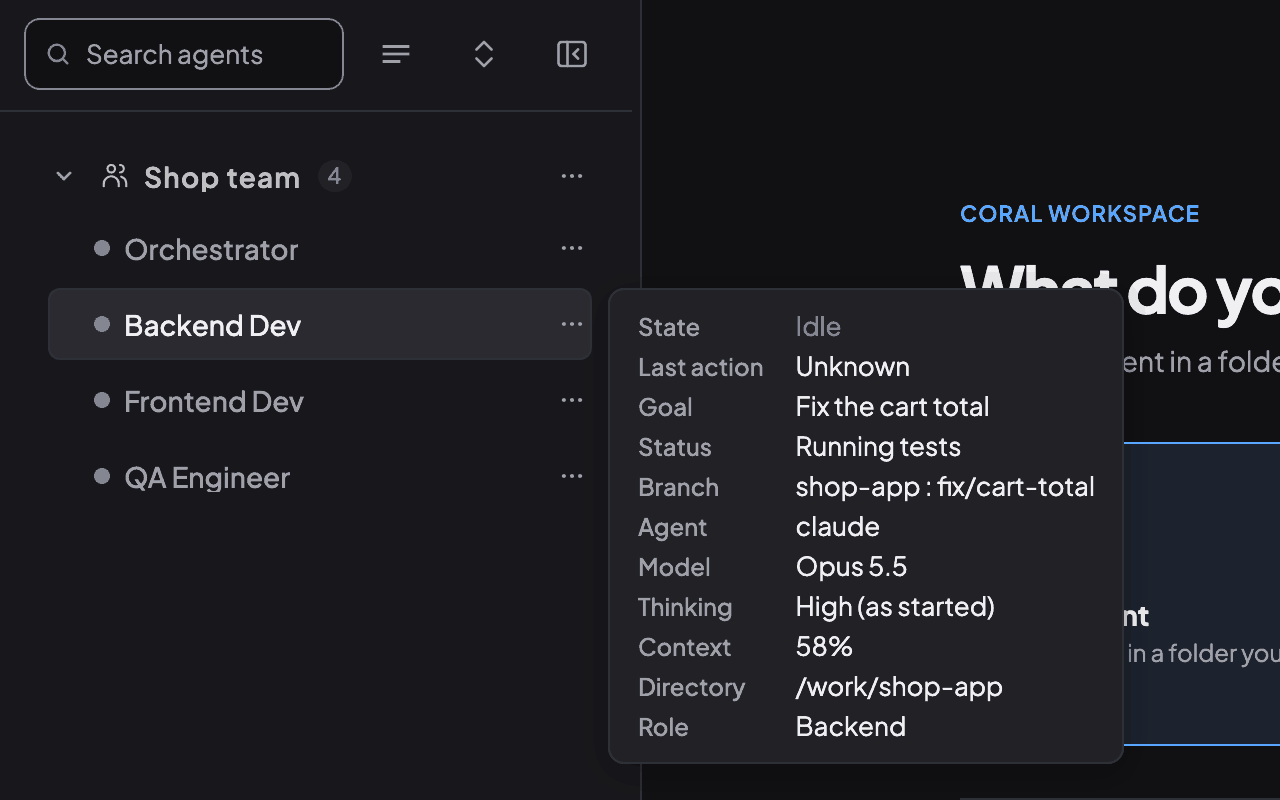
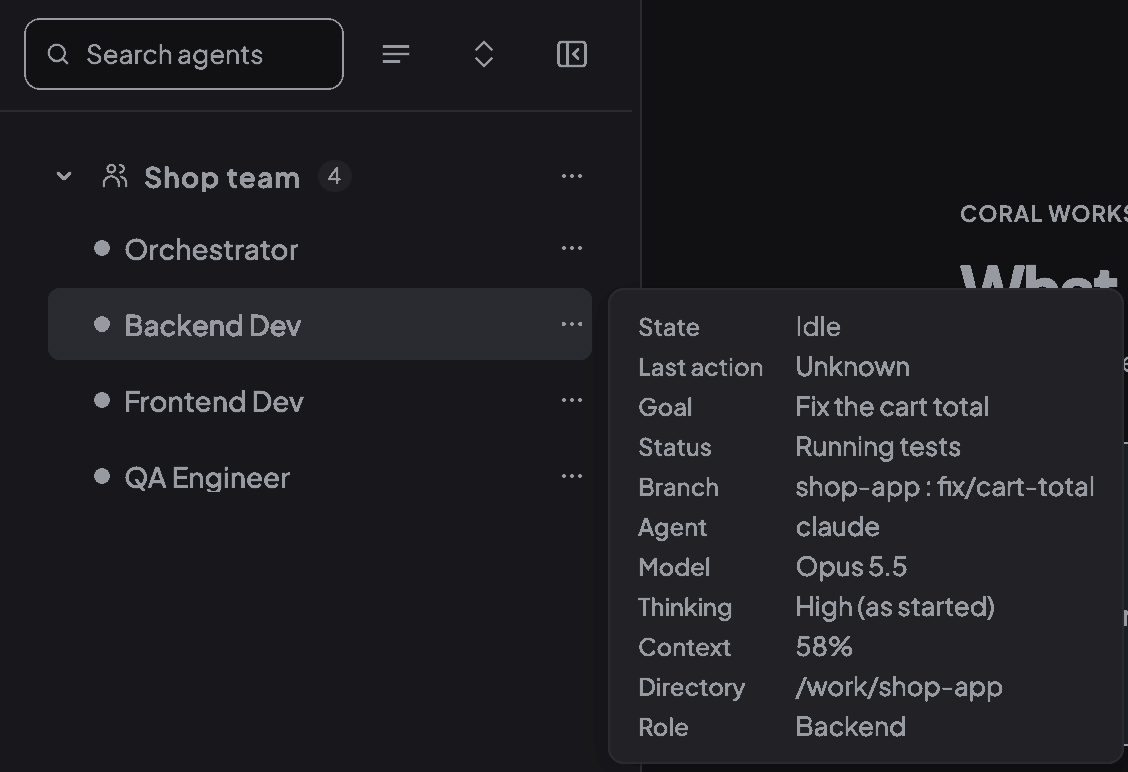
Docs pictures: the hover card is cropped to the sidebar and the card, all three are 16-colour palette PNGs (27.0 KB together, was 41.6); a test caps one docs picture at 24 KB (#10019 round 2)
(cherry picked from commit 4fa4f2804134d3435bbfc0781e01dc6b63d68199)
(cherry picked from commit 39323600bcff7d24e186374f1c4fcb05c93c6e94)

diff --git a/coral-go/pkg/frontend/docs_images_test.go b/coral-go/pkg/frontend/docs_images_test.go
@@ -14,6 +14,9 @@ import (
 // file that is not embedded would show a broken image, and an embedded screenshot no page names is weight in every binary.
 var docImageRef = regexp.MustCompile(`!\[[^\]]*\]\(docs-img/([^)\s]*)\)`)
 
+// One picture is at most this many bytes (the largest today is about 22 KB).
+const maxDocImageBytes = 24 * 1024
+
 var docImageName = regexp.MustCompile(`^[a-z0-9][a-z0-9-]*\.png$`)
 
 func TestDocsImagesAreEmbeddedAndNamed(t *testing.T) {
@@ -46,6 +49,9 @@ func TestDocsImagesAreEmbeddedAndNamed(t *testing.T) {
 	for _, e := range entries {
 		if strings.HasPrefix(e.Name(), ".") {
 			continue
+		}
+		if info, err := e.Info(); err == nil && info.Size() > maxDocImageBytes {
+			t.Errorf("static/docs-img/%s is %d bytes, over %d: crop it and save it as a palette PNG (every picture is in every binary, and the static tree has a budget)", e.Name(), info.Size(), maxDocImageBytes)
 		}
 		if !named[e.Name()] {
 			t.Errorf("static/docs-img/%s is named by no page in agent_docs: delete it or use it", path.Base(e.Name()))
